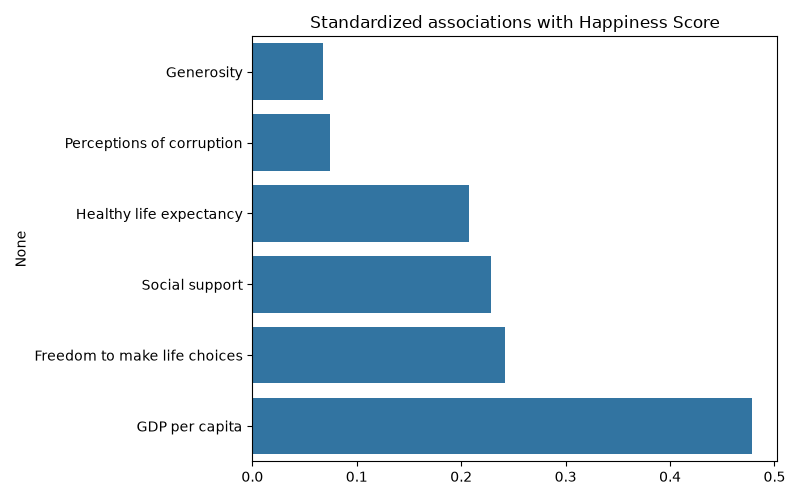
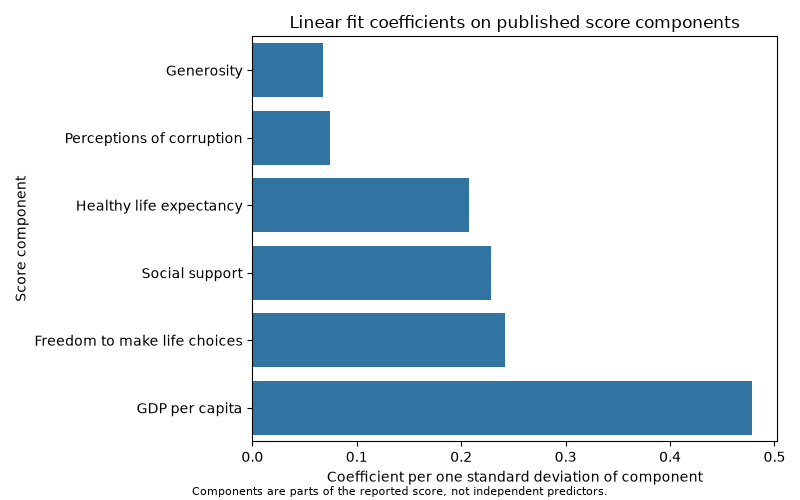
Label happiness component fit as reconstruction

diff --git a/merge_happiness_data.py b/merge_happiness_data.py
@@ -52,6 +52,7 @@ def load_and_harmonize(files=FILES):
 
 
 def grouped_association(merged):
+    """Describe fit using published score components, not independent predictors."""
     clean = merged.dropna(subset=['Happiness Score', *FEATURES]).copy()
     if clean['Country'].nunique() < 5:
         raise ValueError('Need at least five countries for a country-held-out check')
@@ -62,9 +63,11 @@ def grouped_association(merged):
     model.fit(train[FEATURES], train['Happiness Score'])
     prediction = model.predict(test[FEATURES])
     coefficients = pd.Series(model[-1].coef_, index=FEATURES).sort_values()
+    component_gap = clean['Happiness Score'] - clean[FEATURES].sum(axis=1)
     return clean, coefficients, {
-        'country_held_out_r2': float(r2_score(test['Happiness Score'], prediction)),
-        'country_held_out_mae': float(mean_absolute_error(test['Happiness Score'], prediction)),
+        'component_fit_country_held_out_r2': float(r2_score(test['Happiness Score'], prediction)),
+        'component_fit_country_held_out_mae': float(mean_absolute_error(test['Happiness Score'], prediction)),
+        'median_unexplained_score_component': float(component_gap.median()),
         'train_countries': int(train['Country'].nunique()),
         'test_countries': int(test['Country'].nunique()),
     }
@@ -78,7 +81,11 @@ def main():
     out.mkdir(exist_ok=True)
     plt.figure(figsize=(8, 5))
     sns.barplot(x=coefficients.values, y=coefficients.index)
-    plt.title('Standardized associations with Happiness Score')
+    plt.title('Linear fit coefficients on published score components')
+    plt.xlabel('Coefficient per one standard deviation of component')
+    plt.ylabel('Score component')
+    plt.figtext(0.5, 0.01, 'Components are parts of the reported score, not independent predictors.',
+                ha='center', fontsize=8)
     plt.tight_layout()
     plt.savefig(out / 'standardized_associations.png')
     plt.close()
@@ -99,7 +106,7 @@ def main():
     report = {'input_sha256': hashes, 'metrics': metrics,
               'region_rows_mapped': int(merged['Region'].notna().sum()),
               'region_rows_total': len(merged),
-              'limits': 'Associations are not causal; CSV publisher lineage and redistribution rights are unverified.'}
+              'limits': 'The six inputs are published score components. Held-out fit is a component reconstruction diagnostic, not independent prediction or a causal effect. CSV publisher lineage and redistribution rights are unverified.'}
     (out / 'validation_results.json').write_text(json.dumps(report, indent=2))
     return report
 

diff --git a/tests/test_harmonization.py b/tests/test_harmonization.py
@@ -2,7 +2,7 @@ import tempfile
 import unittest
 from pathlib import Path
 import pandas as pd
-from merge_happiness_data import load_and_harmonize, grouped_association
+from merge_happiness_data import FEATURES, load_and_harmonize, grouped_association
 
 
 class HarmonizationTests(unittest.TestCase):
@@ -31,6 +31,12 @@ class HarmonizationTests(unittest.TestCase):
             self.assertEqual(len(hashes), 5)
             _, _, metrics = grouped_association(merged)
             self.assertGreater(metrics['test_countries'], 0)
+
+    def test_2015_inputs_are_components_of_reported_score(self):
+        source = pd.read_csv('2015.csv')
+        merged, _ = load_and_harmonize([Path('2015.csv')])
+        reconstructed = merged[FEATURES].sum(axis=1) + source['Dystopia Residual']
+        self.assertLess((merged['Happiness Score'] - reconstructed).abs().max(), 0.001)
 
 
 if __name__ == '__main__':

diff --git a/README.md b/README.md
@@ -10,9 +10,9 @@ MPLBACKEND=Agg python merge_happiness_data.py
 python -m unittest discover -s tests
 ```
 
-The script maps changing column names, fills missing 2018/2019 regions from earlier country mappings where available, and writes `world_happiness_report.csv`. It standardizes predictors using training countries only, checks a held-out set of countries, and reports R²/MAE in `vizualization/validation_results.json`. Plots show standardized linear coefficients and descriptive correlations. A country-held-out split still does not test later years, and unobserved social factors can confound the associations. The earlier `feature_importance.png`, `pairplot.png`, and summary text are historical outputs under the previous method.
+The script maps changing column names, fills missing 2018/2019 regions from earlier country mappings where available, and writes `world_happiness_report.csv`. The six model inputs are published components of the reported happiness score. The country-held-out R²/MAE in `vizualization/validation_results.json` therefore check how a linear fit reconstructs a score from its components; they are **not independent predictive performance**. Scaling is fitted on training countries only. Plots show linear fit coefficients on those components and descriptive correlations, not causal effects. The split does not test later years. The earlier `feature_importance.png`, `pairplot.png`, and summary text are historical outputs under the previous method.
 
-The 2026-11-10 rerun on the five committed CSVs produced country-held-out R² 0.779 and MAE 0.409 score units across 34 test countries. The JSON includes the five input hashes and exact split counts; these results are descriptive associations only.
+The 2026-11-10 rerun on the five committed CSVs produced a component-fit country-held-out R² of 0.779 and MAE of 0.409 score units across 34 test countries. The six components sum to less than the score because the source includes an unexplained/dystopia residual; the median gap in this snapshot is recorded in the JSON. These figures describe score reconstruction, not a new forecast or an independent model of well-being. The JSON includes the five input hashes and exact split counts.
 The PR smoke workflow runs the harmonization test on Python 3.12 without downloading data.
 
 Suggested repository description: “Harmonized 2015–2019 happiness CSV analysis with country-held-out regression and explicit provenance limits.”
